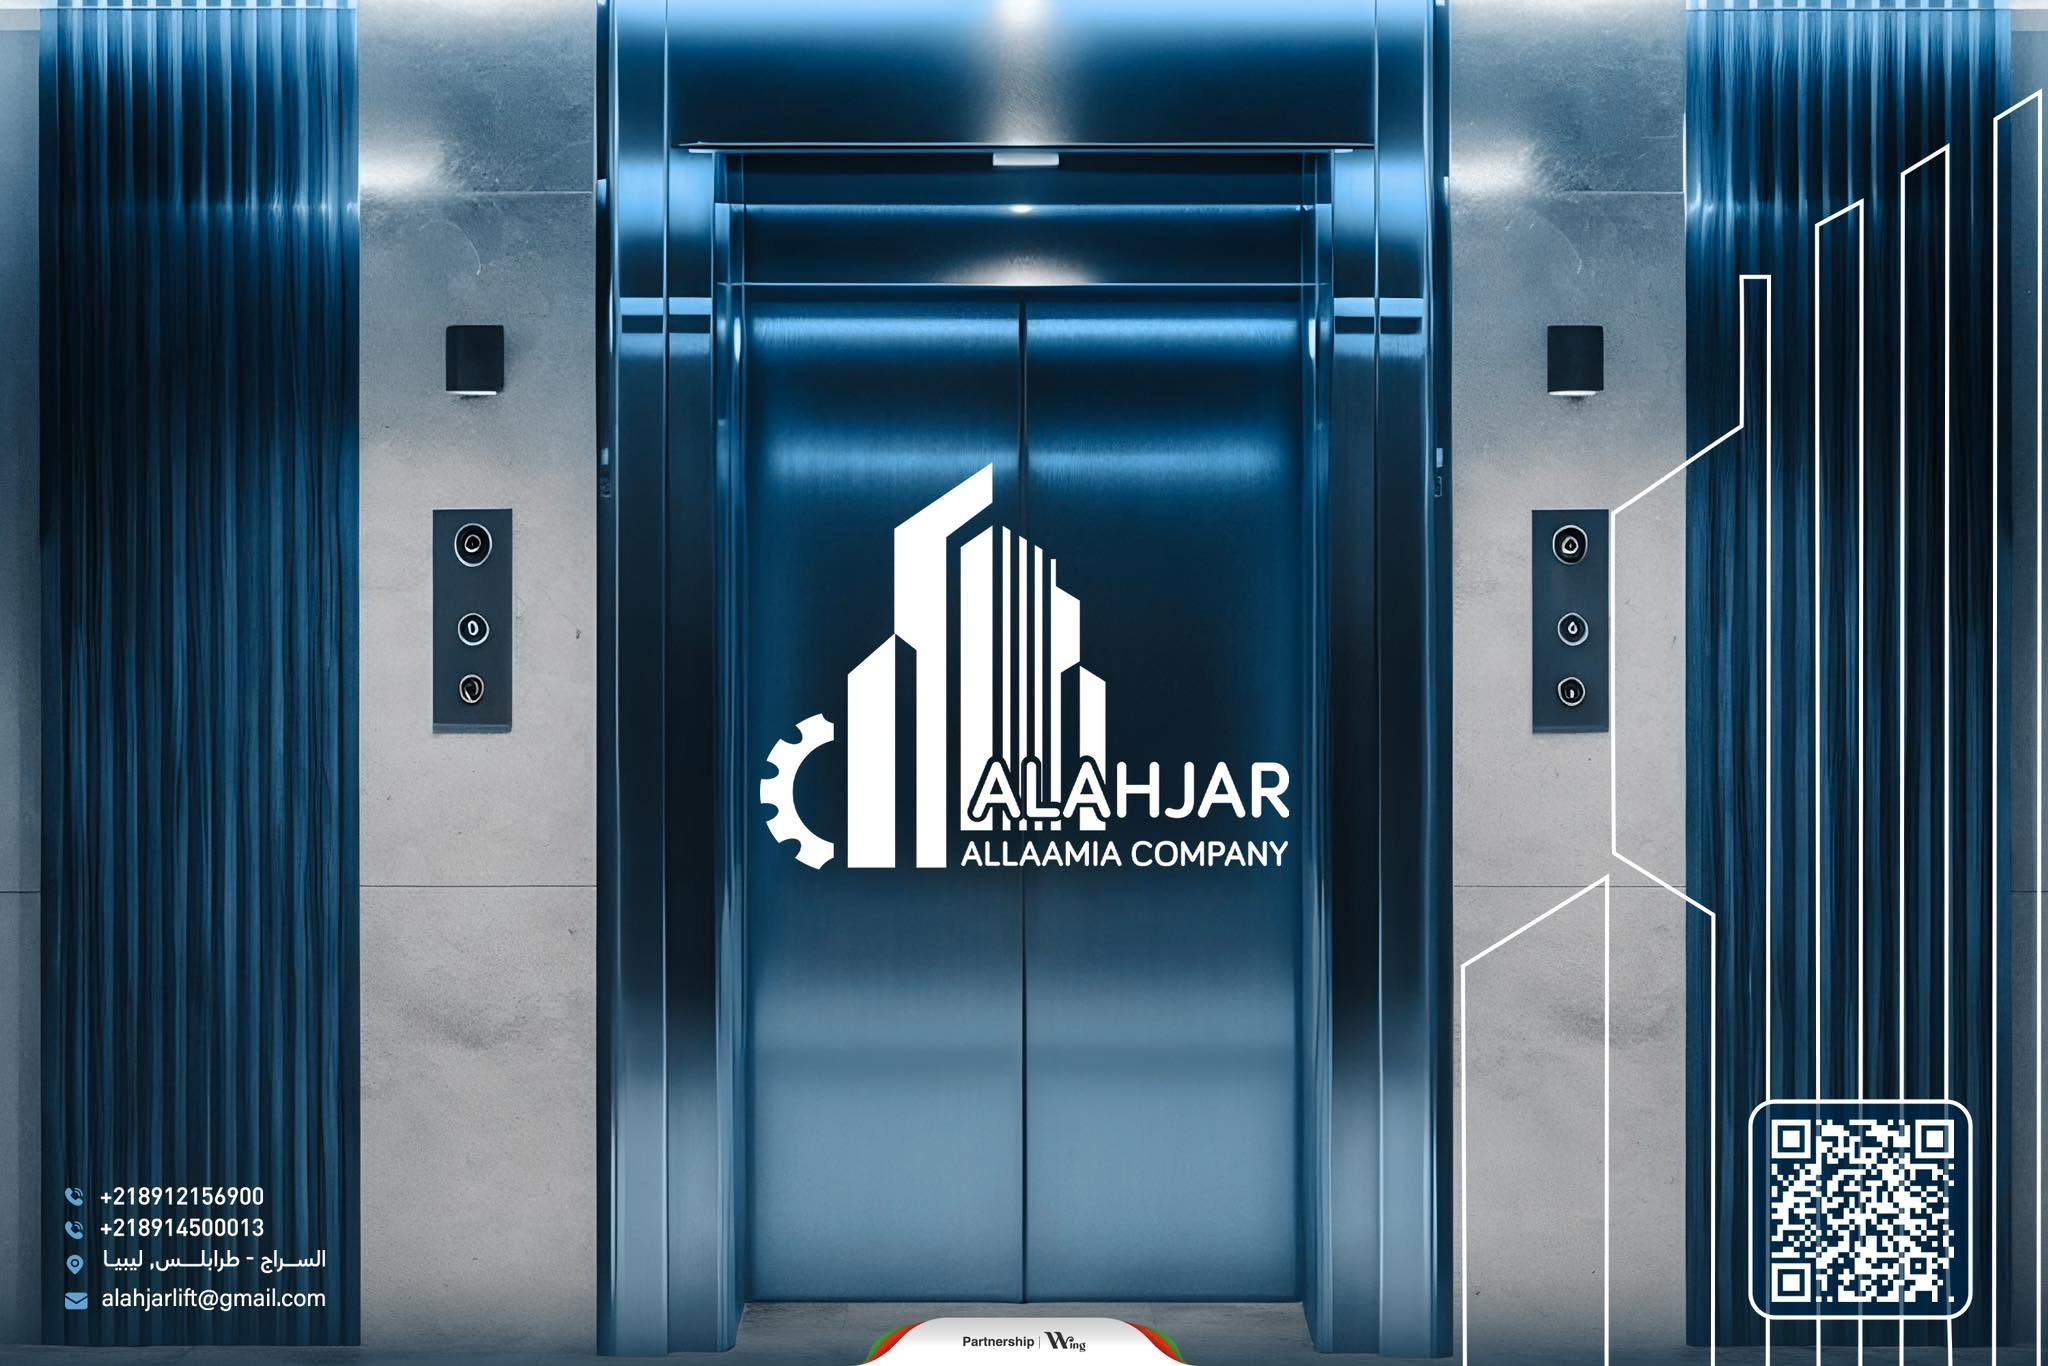
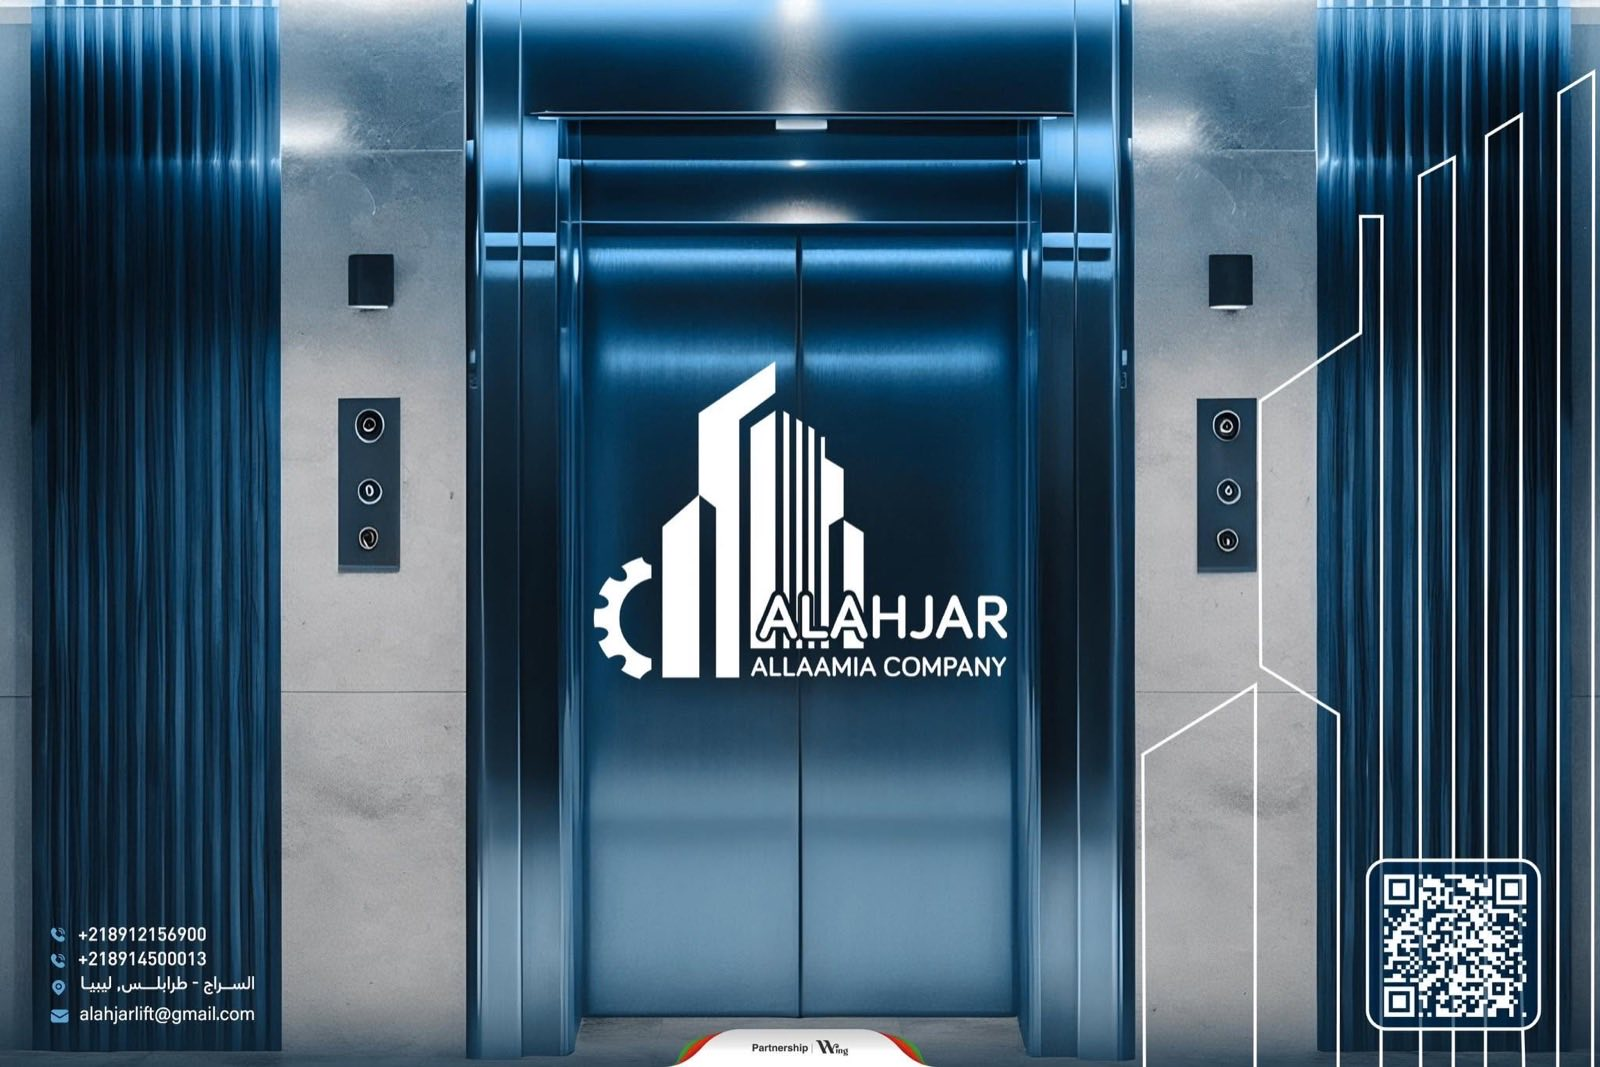
Add social/SEO meta, WhatsApp contact flow, mobile polish
- Open Graph + Twitter card tags for Facebook/WhatsApp link previews
- sitemap.xml, robots.txt, canonical URL, PNG favicon + theme-color
- Contact form now opens WhatsApp with a pre-filled AR/EN message;
  floating WhatsApp button on every page
- Mobile: 16px form inputs (no iOS zoom), 2-col stats, single-col
  services, tighter section padding, larger drawer tap targets
- Compressed cover image (270KB -> 231KB at 1600px)

Changed region(s): [[0.875, 0.8969, 0.9062, 0.9278]]

diff --git a/index.html b/index.html
@@ -2,10 +2,25 @@
 <html lang="ar" dir="rtl">
 <head>
 <meta charset="UTF-8">
-<meta name="viewport" content="width=device-width, initial-scale=1.0">
+<meta name="viewport" content="width=device-width, initial-scale=1.0, viewport-fit=cover">
 <title>شركة الأحجار اللامعة للمصاعد | Alahjar Lifts — Tripoli, Libya</title>
-<meta name="description" content="شركة الأحجار اللامعة للمصاعد الكهربائية — توريد وتركيب وصيانة المصاعد والسلالم الكهربائية في ليبيا. شريك معتمد لشركة SICOR الإيطالية.">
-<link rel="icon" type="image/jpeg" href="assets/logo.jpg">
+<meta name="description" content="شركة الأحجار اللامعة للمصاعد الكهربائية — توريد وتركيب وصيانة المصاعد والسلالم الكهربائية في ليبيا. شريك معتمد لشركة SICOR الإيطالية. Elevator supply, installation & maintenance in Tripoli, Libya.">
+<meta name="theme-color" content="#081a2e">
+<link rel="canonical" href="https://mussab-personal-org.github.io/alahjar-lifts/">
+<!-- Open Graph (Facebook / WhatsApp preview) -->
+<meta property="og:type" content="website">
+<meta property="og:site_name" content="Alahjar Lifts — شركة الأحجار اللامعة للمصاعد">
+<meta property="og:title" content="شركة الأحجار اللامعة للمصاعد | Alahjar Lifts">
+<meta property="og:description" content="توريد وتركيب وصيانة المصاعد والسلالم الكهربائية في ليبيا — بمحركات SICOR الإيطالية الأصلية. طرابلس، السراج.">
+<meta property="og:url" content="https://mussab-personal-org.github.io/alahjar-lifts/">
+<meta property="og:image" content="https://mussab-personal-org.github.io/alahjar-lifts/assets/cover.jpg">
+<meta property="og:image:width" content="1600">
+<meta property="og:image:height" content="1067">
+<meta property="og:locale" content="ar_LY">
+<meta property="og:locale:alternate" content="en_US">
+<meta name="twitter:card" content="summary_large_image">
+<link rel="icon" type="image/png" href="assets/favicon.png">
+<link rel="apple-touch-icon" href="assets/favicon.png">
 <link rel="preconnect" href="https://fonts.googleapis.com">
 <link rel="preconnect" href="https://fonts.gstatic.com" crossorigin>
 <link href="https://fonts.googleapis.com/css2?family=Cairo:wght@300;400;600;700;800;900&family=Inter:wght@300;400;600;700;800&display=swap" rel="stylesheet">
@@ -246,7 +261,7 @@
           <span><span class="lang-ar">شركة الاحجار للمصاعد - Alahjar Lifts</span><span class="lang-en">Alahjar Lifts</span></span>
         </a>
       </div>
-      <form class="contact-form reveal" action="mailto:alahjarlift@gmail.com" method="get" enctype="text/plain">
+      <form class="contact-form reveal" id="waForm">
         <h3><span class="lang-ar">أرسل لنا رسالة</span><span class="lang-en">Send us a message</span></h3>
         <input type="text" name="name" required placeholder="الاسم الكامل" data-ph-ar="الاسم الكامل" data-ph-en="Full name">
         <input type="tel" name="phone" required placeholder="رقم الهاتف" data-ph-ar="رقم الهاتف" data-ph-en="Phone number">
@@ -257,8 +272,11 @@
           <option value="other">استفسار آخر</option>
         </select>
         <textarea name="body" rows="4" required placeholder="تفاصيل المشروع…" data-ph-ar="تفاصيل المشروع…" data-ph-en="Project details…"></textarea>
-        <button type="submit" class="btn btn-primary full"><span class="lang-ar">إرسال</span><span class="lang-en">Send</span></button>
-        <p class="form-note"><span class="lang-ar">سيتم فتح تطبيق البريد لديك لإرسال الرسالة.</span><span class="lang-en">Your mail app will open to send the message.</span></p>
+        <button type="submit" class="btn btn-wa full">
+          <svg viewBox="0 0 24 24" width="20" height="20" fill="currentColor" aria-hidden="true"><path d="M12 2a10 10 0 0 0-8.6 15.1L2 22l5.1-1.3A10 10 0 1 0 12 2Zm0 18.2c-1.6 0-3.1-.4-4.4-1.2l-.3-.2-3 .8.8-2.9-.2-.3A8.2 8.2 0 1 1 12 20.2Zm4.6-6.1c-.3-.1-1.5-.7-1.7-.8-.2-.1-.4-.1-.6.1-.2.3-.6.8-.8 1-.1.2-.3.2-.5.1a6.7 6.7 0 0 1-3.4-3c-.3-.4 0-.5.1-.7l.4-.5c.1-.2.2-.3.3-.5v-.5c0-.1-.5-1.4-.8-1.9-.2-.5-.4-.4-.6-.4h-.5c-.2 0-.5.1-.7.3-.2.3-.9.9-.9 2.2s.9 2.5 1.1 2.7c.1.2 1.8 2.8 4.4 3.9.6.3 1.1.4 1.5.5.6.2 1.2.2 1.6.1.5-.1 1.5-.6 1.7-1.2.2-.6.2-1.1.1-1.2 0-.1-.2-.2-.4-.2Z"/></svg>
+          <span class="lang-ar">إرسال عبر واتساب</span><span class="lang-en">Send via WhatsApp</span>
+        </button>
+        <p class="form-note"><span class="lang-ar">سيتم فتح واتساب وبها رسالتك جاهزة للإرسال.</span><span class="lang-en">WhatsApp will open with your message ready to send.</span></p>
       </form>
     </div>
   </div>
@@ -280,6 +298,11 @@
     </p>
   </div>
 </footer>
+
+<!-- Floating WhatsApp button -->
+<a class="wa-float" href="https://wa.me/218914500013" target="_blank" rel="noopener" aria-label="WhatsApp">
+  <svg viewBox="0 0 24 24" width="30" height="30" fill="currentColor" aria-hidden="true"><path d="M12 2a10 10 0 0 0-8.6 15.1L2 22l5.1-1.3A10 10 0 1 0 12 2Zm0 18.2c-1.6 0-3.1-.4-4.4-1.2l-.3-.2-3 .8.8-2.9-.2-.3A8.2 8.2 0 1 1 12 20.2Zm4.6-6.1c-.3-.1-1.5-.7-1.7-.8-.2-.1-.4-.1-.6.1-.2.3-.6.8-.8 1-.1.2-.3.2-.5.1a6.7 6.7 0 0 1-3.4-3c-.3-.4 0-.5.1-.7l.4-.5c.1-.2.2-.3.3-.5v-.5c0-.1-.5-1.4-.8-1.9-.2-.5-.4-.4-.6-.4h-.5c-.2 0-.5.1-.7.3-.2.3-.9.9-.9 2.2s.9 2.5 1.1 2.7c.1.2 1.8 2.8 4.4 3.9.6.3 1.1.4 1.5.5.6.2 1.2.2 1.6.1.5-.1 1.5-.6 1.7-1.2.2-.6.2-1.1.1-1.2 0-.1-.2-.2-.4-.2Z"/></svg>
+</a>
 
 <script src="js/main.js"></script>
 </body>

diff --git a/css/style.css b/css/style.css
@@ -247,6 +247,23 @@ body.en .lang-ar { display: none; }
 }
 .contact-form input:focus, .contact-form select:focus, .contact-form textarea:focus { border-color: var(--accent); }
 .form-note { font-size: .78rem; color: var(--text-mut); text-align: center; }
+.btn-wa {
+  background: #25d366; color: var(--white);
+  display: inline-flex; align-items: center; justify-content: center; gap: 10px;
+  box-shadow: 0 10px 28px rgba(37,211,102,.35);
+}
+.btn-wa:hover { background: #1fb857; transform: translateY(-3px); }
+
+/* ---- floating WhatsApp ---- */
+.wa-float {
+  position: fixed; bottom: 22px; inset-inline-start: 22px; z-index: 90;
+  width: 58px; height: 58px; border-radius: 50%;
+  background: #25d366; color: var(--white);
+  display: grid; place-items: center;
+  box-shadow: 0 8px 24px rgba(0,0,0,.35);
+  transition: transform .25s, box-shadow .25s;
+}
+.wa-float:hover { transform: scale(1.1); box-shadow: 0 12px 32px rgba(37,211,102,.5); }
 
 /* ---- footer ---- */
 .footer { background: var(--navy-900); color: var(--ice-100); padding: 34px 0; border-top: 1px solid rgba(126,168,207,.15); }
@@ -268,14 +285,42 @@ body.en .lang-ar { display: none; }
 @media (max-width: 820px) {
   .nav-links {
     position: fixed; top: 0; inset-inline-end: -100%;
-    height: 100vh; width: min(320px, 80vw);
+    height: 100vh; height: 100dvh; width: min(320px, 80vw);
     background: var(--navy-900); flex-direction: column; justify-content: center;
     gap: 34px; transition: inset-inline-end .4s ease; box-shadow: -10px 0 40px rgba(0,0,0,.4);
+    z-index: 99;
   }
   .nav-links.open { inset-inline-end: 0; }
-  .burger { display: flex; }
+  .nav-links a { font-size: 1.15rem; padding: 6px 0; }
+  .burger { display: flex; padding: 10px; }
   .brand-text strong { font-size: .9rem; }
+  .brand-text small { display: none; }
+  .brand-logo { width: 40px; height: 40px; }
   .g-item.wide { grid-column: span 1; aspect-ratio: 1; }
   .contact-cards { grid-template-columns: 1fr; }
-  .hero-inner { padding-top: 120px; }
+  .hero-inner { padding-top: 110px; padding-bottom: 70px; }
+  .hero { min-height: 100dvh; }
+  .hero-cta { margin-bottom: 40px; }
+  .hero-cta .btn { flex: 1 1 100%; text-align: center; }
+  .hero-stats { grid-template-columns: 1fr 1fr; gap: 10px; }
+  .stat { padding: 12px 14px; }
+  .stat strong { font-size: 1.35rem; }
+  .hero-scroll { display: none; }
+  .section { padding: 64px 0; }
+  .section-title { margin-bottom: 30px; }
+  .services-grid { grid-template-columns: 1fr; gap: 14px; }
+  .service-card { padding: 22px 20px; }
+  .sicor-card { padding: 24px 20px; }
+  .sicor-logo { max-width: 260px; }
+  .sicor-products { grid-template-columns: 1fr 1fr; gap: 12px; }
+  .gallery-grid { grid-template-columns: 1fr 1fr; gap: 10px; }
+  .contact-form { padding: 24px 18px; }
+  /* 16px inputs prevent iOS auto-zoom on focus */
+  .contact-form input, .contact-form select, .contact-form textarea { font-size: 16px; }
+  .wa-float { width: 52px; height: 52px; bottom: 16px; inset-inline-start: 16px; }
+  .footer-inner { flex-direction: column; align-items: flex-start; }
+}
+@media (max-width: 400px) {
+  .gallery-grid, .sicor-products { grid-template-columns: 1fr; }
+  .hero h1 { font-size: 1.9rem; }
 }

diff --git a/js/main.js b/js/main.js
@@ -48,6 +48,19 @@ const io = new IntersectionObserver(
 );
 document.querySelectorAll('.reveal').forEach(el => io.observe(el));
 
+// Contact form → WhatsApp
+const WA_NUMBER = '218914500013';
+document.getElementById('waForm').addEventListener('submit', e => {
+  e.preventDefault();
+  const f = e.target;
+  const en = document.body.classList.contains('en');
+  const subject = f.subject.options[f.subject.selectedIndex].textContent;
+  const msg = en
+    ? `Hello Alahjar Lifts,\nName: ${f.name.value}\nPhone: ${f.phone.value}\nSubject: ${subject}\n\n${f.body.value}`
+    : `مرحباً شركة الأحجار للمصاعد،\nالاسم: ${f.name.value}\nالهاتف: ${f.phone.value}\nالموضوع: ${subject}\n\n${f.body.value}`;
+  window.open(`https://wa.me/${WA_NUMBER}?text=${encodeURIComponent(msg)}`, '_blank', 'noopener');
+});
+
 // Footer year
 const y = String(new Date().getFullYear());
 document.getElementById('year').textContent = y;
